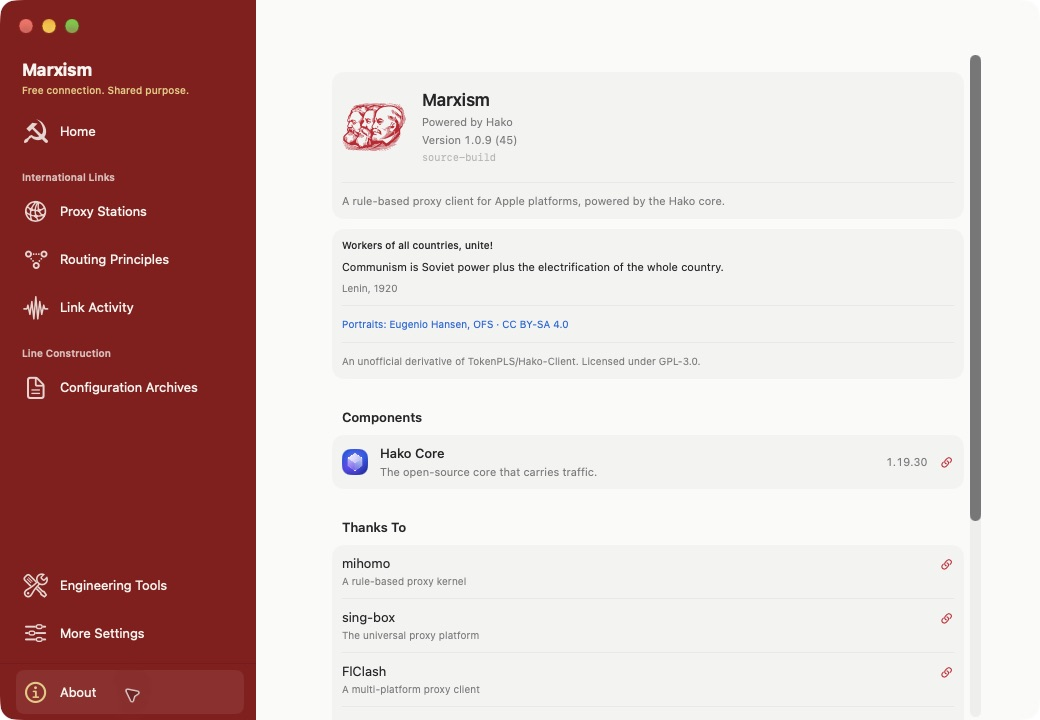
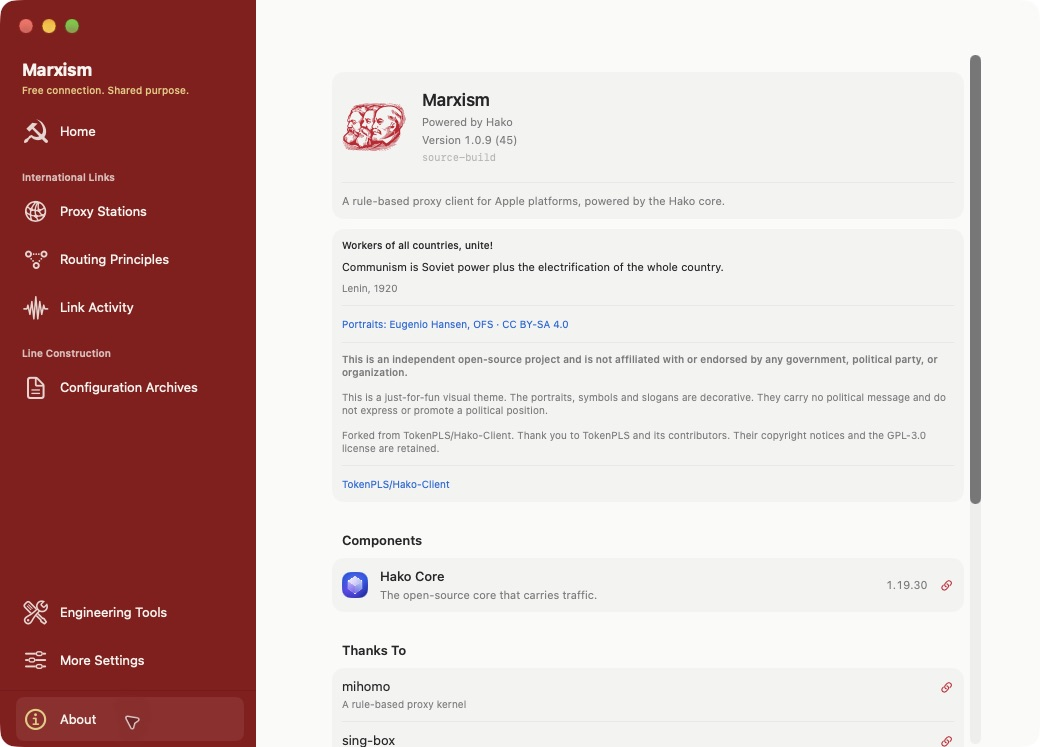
Clarify independent entertainment purpose and upstream credits; add Chinese screenshots

diff --git a/apple/HakoClientUI/Sources/HakoClientUI/Components/SovietBrand.swift b/apple/HakoClientUI/Sources/HakoClientUI/Components/SovietBrand.swift
@@ -14,6 +14,9 @@ public enum SovietCopy {
     public static let workers = "Workers of all countries, unite!"
     public static let electrification = "Communism is Soviet power plus the electrification of the whole country."
     public static let attribution = "Lenin, 1920"
+    public static let independence = "This is an independent open-source project and is not affiliated with or endorsed by any government, political party, or organization."
+    public static let entertainment = "This is a just-for-fun visual theme. The portraits, symbols and slogans are decorative. They carry no political message and do not express or promote a political position."
+    public static let credits = "Forked from TokenPLS/Hako-Client. Thank you to TokenPLS and its contributors. Their copyright notices and the GPL-3.0 license are retained."
     public static let derivative = "An unofficial derivative of TokenPLS/Hako-Client. Licensed under GPL-3.0."
 }
 
@@ -95,5 +98,21 @@ public enum SovietConnectionCopy {
         case .recoverableError: return "The link needs attention"
         case .directRecovery: return "Direct connection restored"
         }
+    }
+}
+
+public struct SovietProjectNotice: View {
+    public init() {}
+    public var body: some View {
+        VStack(alignment: .leading, spacing: 12) {
+            Text(hako: .copy(SovietCopy.independence))
+                .fontWeight(.semibold)
+            Text(hako: .copy(SovietCopy.entertainment))
+            Text(hako: .copy(SovietCopy.credits))
+        }
+        .font(.footnote)
+        .foregroundStyle(.secondary)
+        .fixedSize(horizontal: false, vertical: true)
+        .accessibilityElement(children: .combine)
     }
 }

diff --git a/apple/HakoClient/Sources/TV/HakoTVMoreHub.swift b/apple/HakoClient/Sources/TV/HakoTVMoreHub.swift
@@ -187,11 +187,14 @@ struct HakoTVMoreHub: View {
      
      
     private var about: some View {
+        ScrollView {
         VStack(spacing: 12) {
             HakoTVBrandMark(width: HakoTVBrandMark.aboutWidth)
                 .padding(.bottom, 20)
             SovietHistoricalNote()
                 .foregroundStyle(SovietColors.text)
+                .padding(.bottom, 12)
+            SovietProjectNotice()
                 .padding(.bottom, 12)
             Text("Marxism")
                 .font(.title2)
@@ -206,7 +209,10 @@ struct HakoTVMoreHub: View {
                 .foregroundStyle(.tertiary)
         }
         .multilineTextAlignment(.center)
-        .frame(maxWidth: .infinity, maxHeight: .infinity)
+        .frame(maxWidth: 1100)
+        .padding(.vertical, 40)
+        .frame(maxWidth: .infinity)
+        }
         .accessibilityElement(children: .combine)
         .accessibilityIdentifier("tvos.more.about")
     }

diff --git a/apple/HakoClientUI/Sources/HakoClientUI/Features/About/HakoAboutView.swift b/apple/HakoClientUI/Sources/HakoClientUI/Features/About/HakoAboutView.swift
@@ -213,8 +213,9 @@ public struct HakoAboutView<
                 Link("Portraits: Eugenio Hansen, OFS · CC BY-SA 4.0",
                      destination: URL(string: "https://commons.wikimedia.org/wiki/File:Marx_%2B_Engels_%2B_Lenin_.svg")!)
                     .font(.caption)
-                Text(hako: .copy(SovietCopy.derivative))
-                    .font(.footnote).foregroundStyle(.secondary)
+                SovietProjectNotice()
+                Link("TokenPLS/Hako-Client", destination: URL(string: "https://github.com/TokenPLS/Hako-Client")!)
+                    .font(.footnote)
             }
 
             componentsSection

diff --git a/scripts/verify_theme.py b/scripts/verify_theme.py
@@ -21,6 +21,11 @@ keys=['Workers of all countries, unite!',
  'Configure the link','International Links','Line Construction',
  'Proxy Stations','Routing Principles','Link Activity','Configuration Archives',
  'Engineering Tools','More Settings']
+notice_source=(ROOT/'apple/HakoClientUI/Sources/HakoClientUI/Components/SovietBrand.swift').read_text()
+for name in ['independence','entertainment','credits']:
+ match=re.search(r'public static let '+name+r' = "([^"\n]+)"',notice_source)
+ if match: keys.append(match.group(1))
+ else: errors.append('Missing project notice: '+name)
 catalogs=list((ROOT/'apple/HakoClient').rglob('Localizable.strings'))
 for p in catalogs:
  if '.build' in p.parts:continue

diff --git a/README.md b/README.md
@@ -4,15 +4,30 @@
 
 [中文说明 →](README.zh-CN.md)
 
-Marxism is a native rule-based proxy client for iPhone, iPad, Mac and Apple TV,
-with a Soviet-inspired visual theme, licensed historical artwork and localized
-historical slogans. Configuration, routing and tunnel behavior come from Hako-Client.
+Marxism is a just-for-fun reskin of [TokenPLS/Hako-Client](https://github.com/TokenPLS/Hako-Client)
+for iPhone, iPad, Mac and Apple TV. It gives the original app a red-and-cream theme,
+historical portraits and themed labels. The proxy features come from Hako-Client.
 
-**This project is a modified derivative of TokenPLS/Hako-Client.**
-**Licensed under GPL-3.0.** This is not an official upstream release and is not
-affiliated with or endorsed by any government or political organization.
+**This is an independent open-source project and is not affiliated with or endorsed by any government, political party, or organization.**
 
-## Native on every screen
+This is an entertainment project, not a political statement. The portraits, symbols
+and slogans are decoration. They carry no political message and do not express or
+promote a political position. This is not an official Hako-Client release.
+
+## Original project and thanks
+
+This project is a fork of **[TokenPLS/Hako-Client](https://github.com/TokenPLS/Hako-Client)**,
+starting at commit `b05832246fcac69d13ff16df871a8d53fd394c10`.
+Thank you to **TokenPLS and all Hako-Client contributors** for the original client,
+and to the contributors to [Hako](https://github.com/TokenPLS/Hako) and
+[Hako-Adapter](https://github.com/TokenPLS/Hako-Adapter) for the core and Apple integration.
+This fork would not exist without their work.
+
+The original code remains the work of its authors. Their copyright notices and the
+[GPL-3.0 license](LICENSE) are retained. This fork does not claim ownership of the
+upstream code or third-party artwork. See [credits and licenses](NOTICE.md).
+
+## Screenshots
 
 ![Marxism on macOS — English](docs/screenshots/macos-home-en.png)
 
@@ -30,9 +45,8 @@ affiliated with or endorsed by any government or political organization.
 
 [View the full 4K capture](docs/screenshots/apple-tv-4k-en.png).
 
-Real application captures, using standard text sizes and English app language.
-Development builds honestly show missing capabilities; no successful VPN connection
-or traffic is staged. [Screenshot details and more views](docs/screenshots/README.md).
+These screenshots show the app running in English at normal text size.
+They were taken from development builds, so some show signing or VPN setup errors. [Screenshot details and more views](docs/screenshots/README.md).
 Apple TV was also checked on the tvOS 27 Simulator at 1080p and 4K.
 See [verification](docs/VERIFICATION.md) for the exact scope and remaining checks.
 
@@ -44,8 +58,6 @@ See [verification](docs/VERIFICATION.md) for the exact scope and remaining check
 - A startup guard reports missing iCloud capability instead of crashing in unsigned builds.
 - Core/profile/network models, dependency pins, import formats and URL schemes remain upstream-compatible.
 
-The first derivative is based on upstream commit
-`b05832246fcac69d13ff16df871a8d53fd394c10`.
 Internal Hako module names and compatible technical identifiers are deliberately retained.
 
 ## Build from source
@@ -105,5 +117,14 @@ Remove credentials, subscription URLs and personal data from reports and screens
 
 ## License
 
-[GPL-3.0](LICENSE). Original copyrights and third-party licenses remain with their
-sources and resources. New source and licensed historical artwork use the same license.
+The source code is licensed under [GPL-3.0](LICENSE), including this fork's changes.
+Original copyright notices and third-party licenses are retained.
+
+The artwork has separate licenses:
+
+- The Marx, Engels and Lenin portraits are by **Eugenio Hansen, OFS**, under
+  **CC BY-SA 4.0**. App icons made from them use the same artwork license.
+- The Soviet hammer-and-sickle artwork is available under **CC0 1.0**.
+
+[Artwork sources and full notices](docs/BRANDING.md#artwork-and-licenses) are included
+in the repository and the app. Using the artwork does not imply the artists endorse this project.

diff --git a/README.zh-CN.md b/README.zh-CN.md
@@ -4,16 +4,39 @@
 
 [English](README.md) · 简体中文
 
-基于 TokenPLS/Hako-Client 的 Apple 原生规则代理客户端衍生版本，覆盖 iPhone、
-iPad、Mac 和 Apple TV。使用苏联历史视觉、马克思、恩格斯、列宁同向肖像与标准苏联锤镰符号、深红导航与暖白界面，
-保留原项目的配置、订阅、代理、规则、DNS、流量、日志与隧道能力。
+Marxism 是基于 [TokenPLS/Hako-Client](https://github.com/TokenPLS/Hako-Client)
+做的一个娱乐性换肤版本，支持 iPhone、iPad、Mac 和 Apple TV。
+主要改了配色、图标和界面文案，代理功能来自原项目。
 
-**This project is a modified derivative of TokenPLS/Hako-Client.**
-**Licensed under GPL-3.0.** 本项目不是上游官方版本，不代表任何政府或政治组织。
+**本项目为独立开源项目，与任何政府、政党或组织均无关联，也未获得其认可或背书。**
 
-![Mac 首页：无签名开发构建](docs/screenshots/macos-home-en.png)
+**纯属娱乐，没有政治含义。** 界面中的肖像、符号和标语只作装饰，
+不表达或宣传任何政治立场。本项目也不是 Hako-Client 官方版本。
 
-[查看英文多平台截图](README.md#native-on-every-screen)。截图来自实际运行的开发构建；缺少共享容器时如实显示不可用，不伪造连接或流量。
+## 原项目与致谢
+
+本项目 fork 自 **[TokenPLS/Hako-Client](https://github.com/TokenPLS/Hako-Client)**，
+起点为提交 `b05832246fcac69d13ff16df871a8d53fd394c10`。
+感谢 **TokenPLS 和所有 Hako-Client 贡献者**，也感谢
+[Hako](https://github.com/TokenPLS/Hako) 与
+[Hako-Adapter](https://github.com/TokenPLS/Hako-Adapter) 的贡献者。
+没有他们完成的客户端、内核和 Apple 平台适配，就没有这个换肤版本。
+
+原项目代码的版权属于原作者，本仓库保留原版权声明和 [GPL-3.0 许可证](LICENSE)。
+我们不把上游代码或第三方图片称作自己的原创作品。[版权与素材说明](NOTICE.md)。
+
+## 中文界面
+
+![Mac 中文首页](docs/screenshots/macos-home-zh-Hans.png)
+
+| iPhone 17e | iPad Pro 13 英寸 |
+| --- | --- |
+| <img src="docs/screenshots/iphone-17e-home-zh-Hans.png" alt="iPhone 中文界面" width="280"> | <img src="docs/screenshots/ipad-pro-13-home-zh-Hans.png" alt="iPad 中文界面" width="520"> |
+
+![Apple TV 中文界面](docs/screenshots/apple-tv-1080p-zh-Hans.png)
+
+截图来自正常字号下实际运行的开发构建。部分页面显示签名或 VPN 配置错误，
+具体情况见[验证记录](docs/VERIFICATION.md)。
 
 ## 换肤内容
 
@@ -55,4 +78,4 @@ python3 scripts/configure.py
 
 ## 开源许可
 
-保留 [GPL-3.0](LICENSE)、上游版权、第三方资源许可与致谢。品牌资源分别保留 CC BY-SA 4.0（肖像及衍生图标）与 CC0（锤镰符号），新增源码采用 GPL-3.0。本轮提供公开源码，不包含 App Store 提交或签名安装包发布。
+保留 [GPL-3.0](LICENSE)、上游版权、第三方资源许可与致谢。品牌资源分别保留 CC BY-SA 4.0（肖像及衍生图标）与 CC0（锤镰符号），新增源码采用 GPL-3.0。这里提供源码，暂不提供签名安装包。

diff --git a/NOTICE.md b/NOTICE.md
@@ -1,0 +1,31 @@
+# Project notice and credits
+
+This is an independent open-source project and is not affiliated with or endorsed by any government, political party, or organization.
+
+Marxism is a just-for-fun visual theme for Hako-Client. Its portraits, symbols and
+slogans are decorative. They carry no political message and do not express or
+promote a political position. This is not an official upstream release.
+
+## Upstream work
+
+Marxism is a fork of [TokenPLS/Hako-Client](https://github.com/TokenPLS/Hako-Client),
+starting at `b05832246fcac69d13ff16df871a8d53fd394c10`.
+The client, core and Apple integration are the work of TokenPLS and their respective
+contributors. Thank you to everyone who has worked on Hako-Client,
+[Hako](https://github.com/TokenPLS/Hako) and
+[Hako-Adapter](https://github.com/TokenPLS/Hako-Adapter).
+
+Original copyright notices and the GPL-3.0 license are retained. This fork's source
+changes are also under GPL-3.0.
+Third-party libraries keep their own copyright and license notices.
+
+## Artwork
+
+- Marx, Engels and Lenin portraits: Eugenio Hansen, OFS, 2015, CC BY-SA 4.0.
+  Recolored versions and derived app icons retain this artwork license.
+- Soviet hammer and sickle: CC0 1.0, based on Soviet flag construction geometry.
+- Other third-party logos and acknowledgements remain credited to their sources.
+
+See [the artwork sources and license notices](docs/BRANDING.md#artwork-and-licenses).
+These artwork licenses are separate from the source-code license. No endorsement
+by the artists or upstream contributors is implied.

diff --git a/docs/screenshots/README.md b/docs/screenshots/README.md
@@ -1,7 +1,7 @@
 # Screenshots
 
-Captured from running Marxism development builds on 2026-09-09. The gallery uses
-English app language and standard text size. Images are not mockups or composites.
+Captured from running Marxism development builds on 2026-09-09. The main gallery uses
+English app language and standard text size. A separate Chinese gallery is linked below. Images are not mockups or composites.
 The simulator system status bar may follow the host's locale.
 
 | Capture | Environment | Resolution |
@@ -34,3 +34,13 @@ No fixture, connected-state override or private subscription was used.
 ## Historical identity and attribution
 
 ![About Marxism](macos-about-en.png)
+
+## Chinese interface
+
+These are separate captures of the app running in Simplified Chinese at normal text size.
+They are also shown in the [Chinese README](../../README.zh-CN.md).
+
+- [Mac home](macos-home-zh-Hans.png)
+- [iPhone 17e home](iphone-17e-home-zh-Hans.png)
+- [iPad Pro 13-inch home](ipad-pro-13-home-zh-Hans.png)
+- [Apple TV welcome](apple-tv-1080p-zh-Hans.png)

diff --git a/docs/VERIFICATION.md b/docs/VERIFICATION.md
@@ -112,3 +112,13 @@ and the action label remains complete at both resolutions.
 
 Official installation procedure:
 https://developer.apple.com/documentation/xcode/downloading-and-installing-additional-xcode-components
+
+## Project notice and Chinese gallery
+
+The English README and app About page include the requested independent-project
+statement verbatim. The entertainment-only purpose and upstream attribution are
+translated into Simplified and Traditional Chinese using the existing catalogs.
+Source and artwork licenses are listed separately in NOTICE.md and the READMEs.
+The original GPL-3.0 file is unchanged. The three app targets build with the new
+notice; Mac About was inspected in English and Chinese. The Chinese README now
+uses actual Chinese Mac, iPhone, iPad and Apple TV captures, all at normal text size.

diff --git a/docs/BRANDING.md b/docs/BRANDING.md
@@ -1,6 +1,13 @@
 # Marxism visual identity
 
-Marxism is an unofficial GPL-3.0 derivative of TokenPLS/Hako-Client.
+Marxism is a just-for-fun reskin of TokenPLS/Hako-Client, released under GPL-3.0.
+
+This is an independent open-source project and is not affiliated with or endorsed by any government, political party, or organization.
+
+The theme is for entertainment. Its portraits, symbols and slogans are decoration,
+not a political message or an expression of political support. Original copyright
+notices are retained. Thanks to TokenPLS and all upstream contributors.
+See [project notice and credits](../NOTICE.md).
 
 The visual layer uses warm neutral surfaces, deep red navigation, system typography,
 compact native controls and a Soviet historical identity. Home and product icons use
